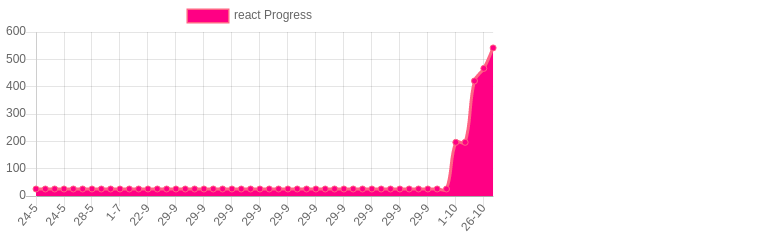
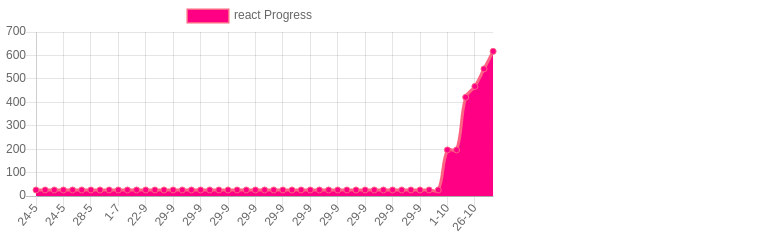
login, logout with angular and react

Changed region(s): [[0.0, 0.168, 0.6429, 0.784], [0.0612, 0.812, 0.6122, 0.924], [0.0, 0.112, 0.0306, 0.14]]

diff --git a/total.html b/total.html
@@ -9,7 +9,7 @@
         <script src="https://cdn.jsdelivr.net/npm/chart.js@2.8.0"></script>
         <script>
           var ctx = document.getElementById("total").getContext("2d");
-          const goLabelsDates = ["2021-02-27T01:37:43.112Z","2021-02-27T01:38:01.628Z","2021-03-01T13:41:18.753Z","2021-03-01T14:53:41.991Z","2021-03-01T15:08:00.851Z","2021-03-01T15:09:10.635Z","2021-03-01T15:22:55.385Z","2021-03-03T15:31:41.151Z","2021-03-05T14:02:13.446Z","2021-03-10T14:50:13.297Z","2021-03-11T01:54:03.424Z","2021-03-11T15:32:47.647Z","2021-03-11T16:01:51.191Z","2021-03-12T00:36:04.646Z","2021-03-13T00:14:58.179Z","2021-03-16T05:30:04.043Z","2021-03-17T21:17:52.181Z","2021-03-18T03:42:56.998Z","2021-03-18T03:44:29.834Z","2021-03-18T03:45:35.160Z","2021-03-18T03:45:54.668Z","2021-03-18T03:48:46.007Z","2021-03-18T05:10:54.427Z","2021-03-18T05:44:13.724Z","2021-03-18T05:56:11.032Z","2021-03-18T22:11:28.339Z","2021-03-19T11:28:55.383Z","2021-03-22T13:51:43.977Z","2021-03-23T01:52:09.452Z","2021-03-23T15:45:53.765Z","2021-03-24T01:46:02.104Z","2021-03-30T10:56:50.711Z","2021-04-01T15:03:17.764Z","2021-04-01T23:15:02.096Z","2021-04-07T19:21:55.040Z","2021-04-08T15:21:14.479Z","2021-04-09T23:17:58.037Z","2021-04-09T23:32:26.341Z","2021-04-09T23:34:42.049Z","2021-04-09T23:36:18.092Z","2021-04-10T01:45:40.218Z","2021-04-12T15:41:26.676Z","2021-04-14T02:00:41.039Z","2021-04-14T20:02:44.141Z","2021-04-14T21:14:15.821Z","2021-04-14T22:06:37.573Z","2021-04-14T22:42:14.693Z","2021-04-14T23:10:13.243Z","2021-04-14T23:22:54.824Z","2021-04-14T23:49:37.009Z","2021-04-15T02:28:51.974Z","2021-04-15T14:33:50.618Z","2021-04-15T15:09:11.104Z","2021-04-15T20:35:30.580Z","2021-04-16T00:04:33.158Z","2021-04-16T01:36:06.294Z","2021-04-16T01:53:35.992Z","2021-04-16T02:00:15.474Z","2021-04-16T16:08:40.977Z","2021-04-16T16:27:06.953Z","2021-04-16T16:59:30.526Z","2021-04-16T17:00:53.737Z","2021-04-16T23:14:36.283Z","2021-04-17T00:39:16.890Z","2021-04-17T01:11:09.986Z","2021-04-17T01:32:30.011Z","2021-04-17T01:44:22.446Z","2021-04-17T01:44:33.941Z","2021-04-17T02:35:55.774Z","2021-04-19T15:41:31.091Z","2021-04-20T15:32:32.239Z","2021-04-20T15:33:16.014Z","2021-04-20T15:36:11.438Z","2021-04-20T15:38:44.606Z","2021-04-20T15:41:50.350Z","2021-04-20T15:44:34.448Z","2021-04-20T15:46:49.295Z","2021-04-20T15:47:24.048Z","2021-04-20T15:56:22.046Z","2021-04-20T16:00:02.540Z","2021-04-20T16:01:15.511Z","2021-04-20T23:19:23.938Z","2021-04-21T00:40:54.443Z","2021-04-21T00:47:22.662Z","2021-04-21T02:01:09.006Z","2021-04-21T02:19:22.734Z","2021-04-21T15:53:36.038Z","2021-04-21T16:21:45.704Z","2021-04-21T16:26:32.790Z","2021-04-21T16:40:24.916Z","2021-04-21T16:43:40.235Z","2021-04-21T16:43:59.719Z","2021-04-21T16:44:40.304Z","2021-04-21T16:46:13.191Z","2021-04-21T16:48:41.898Z","2021-04-21T16:49:08.753Z","2021-04-21T16:50:32.397Z","2021-04-21T16:51:58.778Z","2021-04-23T00:49:32.826Z","2021-04-23T15:03:06.320Z","2021-04-23T15:04:13.039Z","2021-04-23T15:05:25.923Z","2021-04-23T15:11:04.285Z","2021-04-23T15:11:38.826Z","2021-04-23T15:12:05.618Z","2021-04-23T15:12:32.508Z","2021-04-23T15:13:17.058Z","2021-04-23T17:08:27.046Z","2021-04-23T18:02:30.357Z","2021-04-23T22:58:36.946Z","2021-04-23T23:00:26.027Z","2021-04-23T23:52:58.438Z","2021-04-24T01:12:51.525Z","2021-04-24T02:01:46.612Z","2021-04-26T12:46:47.336Z","2021-04-26T13:13:50.946Z","2021-04-26T13:16:04.473Z","2021-04-27T00:11:42.582Z","2021-04-30T03:26:37.101Z","2021-04-30T04:33:42.472Z","2021-04-30T05:15:42.646Z","2021-04-30T14:31:10.927Z","2021-05-04T01:51:49.907Z","2021-05-21T00:30:21.777Z","2021-05-24T15:07:09.579Z","2021-05-24T15:08:05.658Z","2021-05-24T15:22:20.903Z","2021-05-24T15:33:34.626Z","2021-05-24T15:46:16.101Z","2021-05-24T15:48:12.171Z","2021-05-24T15:53:54.498Z","2021-05-24T15:56:18.488Z","2021-05-28T22:50:32.914Z","2021-06-02T17:58:30.866Z","2021-07-01T05:04:25.826Z","2021-07-01T05:05:33.079Z","2021-09-03T16:56:54.023Z","2021-09-23T00:10:19.737Z","2021-09-23T00:54:30.987Z","2021-09-25T00:13:33.106Z","2021-09-25T00:56:09.874Z","2021-09-29T20:37:10.460Z","2021-09-29T20:39:45.107Z","2021-09-29T20:45:08.406Z","2021-09-29T20:45:42.995Z","2021-09-29T20:51:54.166Z","2021-09-29T21:04:45.487Z","2021-09-29T21:22:49.580Z","2021-09-29T21:23:34.860Z","2021-09-29T21:24:52.804Z","2021-09-29T21:25:12.938Z","2021-09-29T21:31:41.466Z","2021-09-29T21:32:02.856Z","2021-09-29T21:32:15.096Z","2021-09-29T21:37:01.273Z","2021-09-29T21:39:46.109Z","2021-09-29T21:40:23.862Z","2021-09-29T21:41:38.242Z","2021-09-29T21:45:36.053Z","2021-09-29T21:48:31.229Z","2021-09-29T21:49:46.414Z","2021-09-29T21:50:16.628Z","2021-09-29T21:52:23.035Z","2021-09-29T21:58:46.153Z","2021-09-29T21:59:06.075Z","2021-09-29T22:09:34.545Z","2021-09-29T22:24:59.487Z","2021-09-29T22:39:38.616Z","2021-09-29T23:07:40.178Z","2021-10-01T13:21:48.217Z","2021-10-01T14:11:47.682Z","2021-10-05T00:24:42.303Z","2021-10-05T14:36:34.233Z","2021-10-05T15:30:47.628Z","2021-10-13T14:16:32.194Z","2021-10-14T20:31:14.540Z","2021-10-15T02:04:50.667Z","2021-10-22T22:01:46.214Z","2021-10-26T00:04:54.365Z","2021-10-26T00:05:44.432Z","2021-10-26T13:52:24.065Z","2021-10-26T14:08:20.572Z","2021-11-11T01:24:39.296Z","2021-11-11T02:12:58.681Z","2021-11-11T03:09:01.800Z","2021-11-12T02:26:28.025Z","2021-11-20T00:54:03.498Z","2021-11-20T01:56:10.259Z","2021-11-23T01:08:04.347Z",];
+          const goLabelsDates = ["2021-02-27T01:37:43.112Z","2021-02-27T01:38:01.628Z","2021-03-01T13:41:18.753Z","2021-03-01T14:53:41.991Z","2021-03-01T15:08:00.851Z","2021-03-01T15:09:10.635Z","2021-03-01T15:22:55.385Z","2021-03-03T15:31:41.151Z","2021-03-05T14:02:13.446Z","2021-03-10T14:50:13.297Z","2021-03-11T01:54:03.424Z","2021-03-11T15:32:47.647Z","2021-03-11T16:01:51.191Z","2021-03-12T00:36:04.646Z","2021-03-13T00:14:58.179Z","2021-03-16T05:30:04.043Z","2021-03-17T21:17:52.181Z","2021-03-18T03:42:56.998Z","2021-03-18T03:44:29.834Z","2021-03-18T03:45:35.160Z","2021-03-18T03:45:54.668Z","2021-03-18T03:48:46.007Z","2021-03-18T05:10:54.427Z","2021-03-18T05:44:13.724Z","2021-03-18T05:56:11.032Z","2021-03-18T22:11:28.339Z","2021-03-19T11:28:55.383Z","2021-03-22T13:51:43.977Z","2021-03-23T01:52:09.452Z","2021-03-23T15:45:53.765Z","2021-03-24T01:46:02.104Z","2021-03-30T10:56:50.711Z","2021-04-01T15:03:17.764Z","2021-04-01T23:15:02.096Z","2021-04-07T19:21:55.040Z","2021-04-08T15:21:14.479Z","2021-04-09T23:17:58.037Z","2021-04-09T23:32:26.341Z","2021-04-09T23:34:42.049Z","2021-04-09T23:36:18.092Z","2021-04-10T01:45:40.218Z","2021-04-12T15:41:26.676Z","2021-04-14T02:00:41.039Z","2021-04-14T20:02:44.141Z","2021-04-14T21:14:15.821Z","2021-04-14T22:06:37.573Z","2021-04-14T22:42:14.693Z","2021-04-14T23:10:13.243Z","2021-04-14T23:22:54.824Z","2021-04-14T23:49:37.009Z","2021-04-15T02:28:51.974Z","2021-04-15T14:33:50.618Z","2021-04-15T15:09:11.104Z","2021-04-15T20:35:30.580Z","2021-04-16T00:04:33.158Z","2021-04-16T01:36:06.294Z","2021-04-16T01:53:35.992Z","2021-04-16T02:00:15.474Z","2021-04-16T16:08:40.977Z","2021-04-16T16:27:06.953Z","2021-04-16T16:59:30.526Z","2021-04-16T17:00:53.737Z","2021-04-16T23:14:36.283Z","2021-04-17T00:39:16.890Z","2021-04-17T01:11:09.986Z","2021-04-17T01:32:30.011Z","2021-04-17T01:44:22.446Z","2021-04-17T01:44:33.941Z","2021-04-17T02:35:55.774Z","2021-04-19T15:41:31.091Z","2021-04-20T15:32:32.239Z","2021-04-20T15:33:16.014Z","2021-04-20T15:36:11.438Z","2021-04-20T15:38:44.606Z","2021-04-20T15:41:50.350Z","2021-04-20T15:44:34.448Z","2021-04-20T15:46:49.295Z","2021-04-20T15:47:24.048Z","2021-04-20T15:56:22.046Z","2021-04-20T16:00:02.540Z","2021-04-20T16:01:15.511Z","2021-04-20T23:19:23.938Z","2021-04-21T00:40:54.443Z","2021-04-21T00:47:22.662Z","2021-04-21T02:01:09.006Z","2021-04-21T02:19:22.734Z","2021-04-21T15:53:36.038Z","2021-04-21T16:21:45.704Z","2021-04-21T16:26:32.790Z","2021-04-21T16:40:24.916Z","2021-04-21T16:43:40.235Z","2021-04-21T16:43:59.719Z","2021-04-21T16:44:40.304Z","2021-04-21T16:46:13.191Z","2021-04-21T16:48:41.898Z","2021-04-21T16:49:08.753Z","2021-04-21T16:50:32.397Z","2021-04-21T16:51:58.778Z","2021-04-23T00:49:32.826Z","2021-04-23T15:03:06.320Z","2021-04-23T15:04:13.039Z","2021-04-23T15:05:25.923Z","2021-04-23T15:11:04.285Z","2021-04-23T15:11:38.826Z","2021-04-23T15:12:05.618Z","2021-04-23T15:12:32.508Z","2021-04-23T15:13:17.058Z","2021-04-23T17:08:27.046Z","2021-04-23T18:02:30.357Z","2021-04-23T22:58:36.946Z","2021-04-23T23:00:26.027Z","2021-04-23T23:52:58.438Z","2021-04-24T01:12:51.525Z","2021-04-24T02:01:46.612Z","2021-04-26T12:46:47.336Z","2021-04-26T13:13:50.946Z","2021-04-26T13:16:04.473Z","2021-04-27T00:11:42.582Z","2021-04-30T03:26:37.101Z","2021-04-30T04:33:42.472Z","2021-04-30T05:15:42.646Z","2021-04-30T14:31:10.927Z","2021-05-04T01:51:49.907Z","2021-05-21T00:30:21.777Z","2021-05-24T15:07:09.579Z","2021-05-24T15:08:05.658Z","2021-05-24T15:22:20.903Z","2021-05-24T15:33:34.626Z","2021-05-24T15:46:16.101Z","2021-05-24T15:48:12.171Z","2021-05-24T15:53:54.498Z","2021-05-24T15:56:18.488Z","2021-05-28T22:50:32.914Z","2021-06-02T17:58:30.866Z","2021-07-01T05:04:25.826Z","2021-07-01T05:05:33.079Z","2021-09-03T16:56:54.023Z","2021-09-23T00:10:19.737Z","2021-09-23T00:54:30.987Z","2021-09-25T00:13:33.106Z","2021-09-25T00:56:09.874Z","2021-09-29T20:37:10.460Z","2021-09-29T20:39:45.107Z","2021-09-29T20:45:08.406Z","2021-09-29T20:45:42.995Z","2021-09-29T20:51:54.166Z","2021-09-29T21:04:45.487Z","2021-09-29T21:22:49.580Z","2021-09-29T21:23:34.860Z","2021-09-29T21:24:52.804Z","2021-09-29T21:25:12.938Z","2021-09-29T21:31:41.466Z","2021-09-29T21:32:02.856Z","2021-09-29T21:32:15.096Z","2021-09-29T21:37:01.273Z","2021-09-29T21:39:46.109Z","2021-09-29T21:40:23.862Z","2021-09-29T21:41:38.242Z","2021-09-29T21:45:36.053Z","2021-09-29T21:48:31.229Z","2021-09-29T21:49:46.414Z","2021-09-29T21:50:16.628Z","2021-09-29T21:52:23.035Z","2021-09-29T21:58:46.153Z","2021-09-29T21:59:06.075Z","2021-09-29T22:09:34.545Z","2021-09-29T22:24:59.487Z","2021-09-29T22:39:38.616Z","2021-09-29T23:07:40.178Z","2021-10-01T13:21:48.217Z","2021-10-01T14:11:47.682Z","2021-10-05T00:24:42.303Z","2021-10-05T14:36:34.233Z","2021-10-05T15:30:47.628Z","2021-10-13T14:16:32.194Z","2021-10-14T20:31:14.540Z","2021-10-15T02:04:50.667Z","2021-10-22T22:01:46.214Z","2021-10-26T00:04:54.365Z","2021-10-26T00:05:44.432Z","2021-10-26T13:52:24.065Z","2021-10-26T14:08:20.572Z","2021-11-11T01:24:39.296Z","2021-11-11T02:12:58.681Z","2021-11-11T03:09:01.800Z","2021-11-12T02:26:28.025Z","2021-11-20T00:54:03.498Z","2021-11-20T01:56:10.259Z","2021-11-23T01:08:04.347Z","2021-11-23T01:36:10.103Z",];
           var chart = new Chart(ctx, {
             type: 'line',
             data: {
@@ -18,7 +18,7 @@
                 label: 'total Progress',
                 backgroundColor: 'rgb(255, 0, 132)',
                 borderColor: 'rgb(255, 99, 132)',
-                data: [7975,7975,8307,8526,8526,8527,8573,9171,9358,9751,9908,10232,10231,10643,10911,11353,12576,12666,0,0,169,12835,12906,12953,12953,13141,13254,13354,13406,13417,13568,13708,13845,14886,15140,15267,15766,15777,15777,15777,16211,16345,17062,17247,17324,17464,17697,17849,17916,18002,18002,18202,18292,18515,18590,18744,18837,18876,19030,19086,19114,19143,19378,19465,19607,19714,19782,19782,19791,20220,20257,20257,20257,20257,20257,20257,20257,20257,20257,20257,20257,21179,21238,21279,21319,21319,21430,21506,21543,65995,0,44452,44452,44452,20233,20233,1629,23172,23326,23693,23693,23693,23693,23693,23693,23693,23693,23693,23693,23693,23693,23905,24023,24262,24275,24376,24376,24452,25078,25182,25238,25232,25233,25334,23696,25427,25453,25466,25491,11565,5707,5707,4421,4535,4535,3678,3678,3678,5861,5318,5422,5473,12667,12667,12667,12667,12667,12667,12667,12667,12667,12667,12667,12667,12667,12667,12667,12667,12667,12667,12658,12658,12657,12657,12657,12657,12683,12736,12779,12888,2619,2775,9772,9922,10674,1795,1824,2002,2000,422,468,543,2427,2526,2611,2684,13391,13661,13756,]
+                data: [7975,7975,8307,8526,8526,8527,8573,9171,9358,9751,9908,10232,10231,10643,10911,11353,12576,12666,0,0,169,12835,12906,12953,12953,13141,13254,13354,13406,13417,13568,13708,13845,14886,15140,15267,15766,15777,15777,15777,16211,16345,17062,17247,17324,17464,17697,17849,17916,18002,18002,18202,18292,18515,18590,18744,18837,18876,19030,19086,19114,19143,19378,19465,19607,19714,19782,19782,19791,20220,20257,20257,20257,20257,20257,20257,20257,20257,20257,20257,20257,21179,21238,21279,21319,21319,21430,21506,21543,65995,0,44452,44452,44452,20233,20233,1629,23172,23326,23693,23693,23693,23693,23693,23693,23693,23693,23693,23693,23693,23693,23905,24023,24262,24275,24376,24376,24452,25078,25182,25238,25232,25233,25334,23696,25427,25453,25466,25491,11565,5707,5707,4421,4535,4535,3678,3678,3678,5861,5318,5422,5473,12667,12667,12667,12667,12667,12667,12667,12667,12667,12667,12667,12667,12667,12667,12667,12667,12667,12667,12658,12658,12657,12657,12657,12657,12683,12736,12779,12888,2619,2775,9772,9922,10674,1795,1824,2002,2000,422,468,543,2427,2526,2611,2684,13391,13661,13756,652,]
               }]
             },
           });

diff --git a/react.html b/react.html
@@ -9,7 +9,7 @@
         <script src="https://cdn.jsdelivr.net/npm/chart.js@2.8.0"></script>
         <script>
           var ctx = document.getElementById("react").getContext("2d");
-          const goLabelsDates = ["2021-05-24T15:22:20.900Z","2021-05-24T15:33:34.624Z","2021-05-24T15:46:16.099Z","2021-05-24T15:48:12.170Z","2021-05-24T15:53:54.498Z","2021-05-24T15:56:18.484Z","2021-05-28T22:50:32.912Z","2021-06-02T17:58:30.865Z","2021-07-01T05:04:25.823Z","2021-07-01T05:05:33.078Z","2021-09-03T16:56:54.022Z","2021-09-23T00:10:19.736Z","2021-09-23T00:54:30.986Z","2021-09-25T00:13:33.104Z","2021-09-25T00:56:09.872Z","2021-09-29T20:37:10.455Z","2021-09-29T20:39:45.106Z","2021-09-29T20:45:08.405Z","2021-09-29T20:45:42.992Z","2021-09-29T20:51:54.164Z","2021-09-29T21:04:45.485Z","2021-09-29T21:22:49.578Z","2021-09-29T21:23:34.858Z","2021-09-29T21:24:52.803Z","2021-09-29T21:25:12.936Z","2021-09-29T21:31:41.463Z","2021-09-29T21:32:02.853Z","2021-09-29T21:32:15.094Z","2021-09-29T21:36:24.777Z","2021-09-29T21:37:01.271Z","2021-09-29T21:39:46.106Z","2021-09-29T21:40:23.860Z","2021-09-29T21:41:38.229Z","2021-09-29T21:45:36.048Z","2021-09-29T21:48:31.220Z","2021-09-29T21:49:46.410Z","2021-09-29T21:50:16.623Z","2021-09-29T21:52:23.031Z","2021-09-29T21:58:46.149Z","2021-09-29T21:59:06.072Z","2021-09-29T22:09:34.541Z","2021-09-29T22:24:59.483Z","2021-09-29T22:39:38.613Z","2021-09-29T23:07:40.174Z","2021-10-01T13:21:48.213Z","2021-10-01T14:11:47.678Z","2021-10-05T00:24:42.298Z","2021-10-26T00:05:44.428Z","2021-10-26T13:52:24.062Z","2021-10-26T14:08:20.569Z",];
+          const goLabelsDates = ["2021-05-24T15:22:20.900Z","2021-05-24T15:33:34.624Z","2021-05-24T15:46:16.099Z","2021-05-24T15:48:12.170Z","2021-05-24T15:53:54.498Z","2021-05-24T15:56:18.484Z","2021-05-28T22:50:32.912Z","2021-06-02T17:58:30.865Z","2021-07-01T05:04:25.823Z","2021-07-01T05:05:33.078Z","2021-09-03T16:56:54.022Z","2021-09-23T00:10:19.736Z","2021-09-23T00:54:30.986Z","2021-09-25T00:13:33.104Z","2021-09-25T00:56:09.872Z","2021-09-29T20:37:10.455Z","2021-09-29T20:39:45.106Z","2021-09-29T20:45:08.405Z","2021-09-29T20:45:42.992Z","2021-09-29T20:51:54.164Z","2021-09-29T21:04:45.485Z","2021-09-29T21:22:49.578Z","2021-09-29T21:23:34.858Z","2021-09-29T21:24:52.803Z","2021-09-29T21:25:12.936Z","2021-09-29T21:31:41.463Z","2021-09-29T21:32:02.853Z","2021-09-29T21:32:15.094Z","2021-09-29T21:36:24.777Z","2021-09-29T21:37:01.271Z","2021-09-29T21:39:46.106Z","2021-09-29T21:40:23.860Z","2021-09-29T21:41:38.229Z","2021-09-29T21:45:36.048Z","2021-09-29T21:48:31.220Z","2021-09-29T21:49:46.410Z","2021-09-29T21:50:16.623Z","2021-09-29T21:52:23.031Z","2021-09-29T21:58:46.149Z","2021-09-29T21:59:06.072Z","2021-09-29T22:09:34.541Z","2021-09-29T22:24:59.483Z","2021-09-29T22:39:38.613Z","2021-09-29T23:07:40.174Z","2021-10-01T13:21:48.213Z","2021-10-01T14:11:47.678Z","2021-10-05T00:24:42.298Z","2021-10-26T00:05:44.428Z","2021-10-26T13:52:24.062Z","2021-10-26T14:08:20.569Z","2021-11-23T01:36:10.097Z",];
           var chart = new Chart(ctx, {
             type: 'line',
             data: {
@@ -18,7 +18,7 @@
                 label: 'react Progress',
                 backgroundColor: 'rgb(255, 0, 132)',
                 borderColor: 'rgb(255, 99, 132)',
-                data: [26,26,26,26,26,26,26,26,26,26,26,26,26,26,26,26,26,26,26,26,26,26,26,26,26,26,26,26,26,26,26,26,26,26,26,26,26,26,26,26,26,26,26,26,26,197,197,422,468,543,]
+                data: [26,26,26,26,26,26,26,26,26,26,26,26,26,26,26,26,26,26,26,26,26,26,26,26,26,26,26,26,26,26,26,26,26,26,26,26,26,26,26,26,26,26,26,26,26,197,197,422,468,543,618,]
               }]
             },
           });

diff --git a/angular.html b/angular.html
@@ -1,0 +1,28 @@
+
+      <!DOCTYPE HTML>
+      <html>
+      <head></head>
+      <body>
+        <div style="width: 500px;">
+          <canvas id="angular" width="300" height="150"></canvas>
+        </div>
+        <script src="https://cdn.jsdelivr.net/npm/chart.js@2.8.0"></script>
+        <script>
+          var ctx = document.getElementById("angular").getContext("2d");
+          const goLabelsDates = ["2021-11-23T01:36:10.098Z",];
+          var chart = new Chart(ctx, {
+            type: 'line',
+            data: {
+              labels: goLabelsDates.map(x => new Date(x).getDate() + "-" + (new Date(x).getMonth() + 1)),
+              datasets: [{
+                label: 'angular Progress',
+                backgroundColor: 'rgb(255, 0, 132)',
+                borderColor: 'rgb(255, 99, 132)',
+                data: [34,]
+              }]
+            },
+          });
+        </script>
+      </body>
+      </html>  
+      

diff --git a/config.js b/config.js
@@ -26,22 +26,30 @@ const configLn = [
     src: ['../../react/react-shopping-cart'],
     goal: 2000
   }, */
-  {
+  /* {
     ln: 'js',
     title: "JavaScript",
     subjects: [
       "react, ", "node, sequelize, orm, mongodb."
     ],
     goal: 7000
-  },
-  /* {
+  }, */
+  {
     ln: 'react',
     title: "React",
     subjects: [
       "Testing, builds"
     ],
-    goal: 1000
-  }, */
+    goal: 10000
+  },
+  {
+    ln: 'angular',
+    title: "Angular",
+    subjects: [
+      "Auth"
+    ],
+    goal: 10000
+  },
   /*  {
      ln: 'ts',
      title: "TS",
@@ -74,18 +82,18 @@ const configLn = [
     subjects: [],
     goal: 500
   }, */
-   {
+   /* {
     ln: 'go',
     title: "go",
     subjects: ["structs", "loops"],
     goal: 3000
-  },
-  {
+  }, */
+  /* {
     ln: 'python',
     title: "python",
     subjects: ["collections", ""],
     goal: 2000
-  },
+  }, */
   /* {
     ln: 'ruby',
     title: "ruby",

diff --git a/Readme.md b/Readme.md
@@ -1,13 +1,12 @@
 # All count
 |Language|Goal|Lines%|%|%|%|Subjects|
 |----------|-------|-------|--------|--------|--------|--------|
-|js|10000|7415|74|![js](https://raw.githubusercontent.com/kapit4n/l-10000-dev/master/js.png)|react, , node, sequelize, orm, mongodb.|aws sdk, enzyme, node google cloud, node rest, node tips and tricks, mysql, web3, express auth0|
-|go|10000|3488|35|![go](https://raw.githubusercontent.com/kapit4n/l-10000-dev/master/go.png)|structs, loops|consumingRESTfulAPI, data structures, design pattern, go slices, image file url, mysql, queue, web3, auth0, fiber example, mux|
-|python|10000|2853|29|![python](https://raw.githubusercontent.com/kapit4n/l-10000-dev/master/python.png)|collections, |algorithms, authentication jwt, authentication vs autorization, aws s3 boto3, django pdf, django tips, g cloud storage, login django, login flask, mysql, unit tests, web3, yield, auth0|
-|TOTAL|13756|45.853%|
+|react|10000|618|6|![react](https://raw.githubusercontent.com/kapit4n/l-10000-dev/master/react.png)|Testing, builds|custom hook session, react context local staorage, react context update, react context, react custom hook, react hooks tips, react hooks, login logout redux, components|
+|angular|10000|34|0|![angular](https://raw.githubusercontent.com/kapit4n/l-10000-dev/master/angular.png)|Auth|login logout|
+|TOTAL|652|3.260%|
 10/02(0)
 
-10/03(13756)
+10/03(652)
 
 
   # run it
@@ -30,4 +29,4 @@
   * Angular, React, Vue
   * Spring, Play
   * Scala, Java
-  , 2021-11-23T01:08:04.347Z
+  , 2021-11-23T01:36:10.103Z
